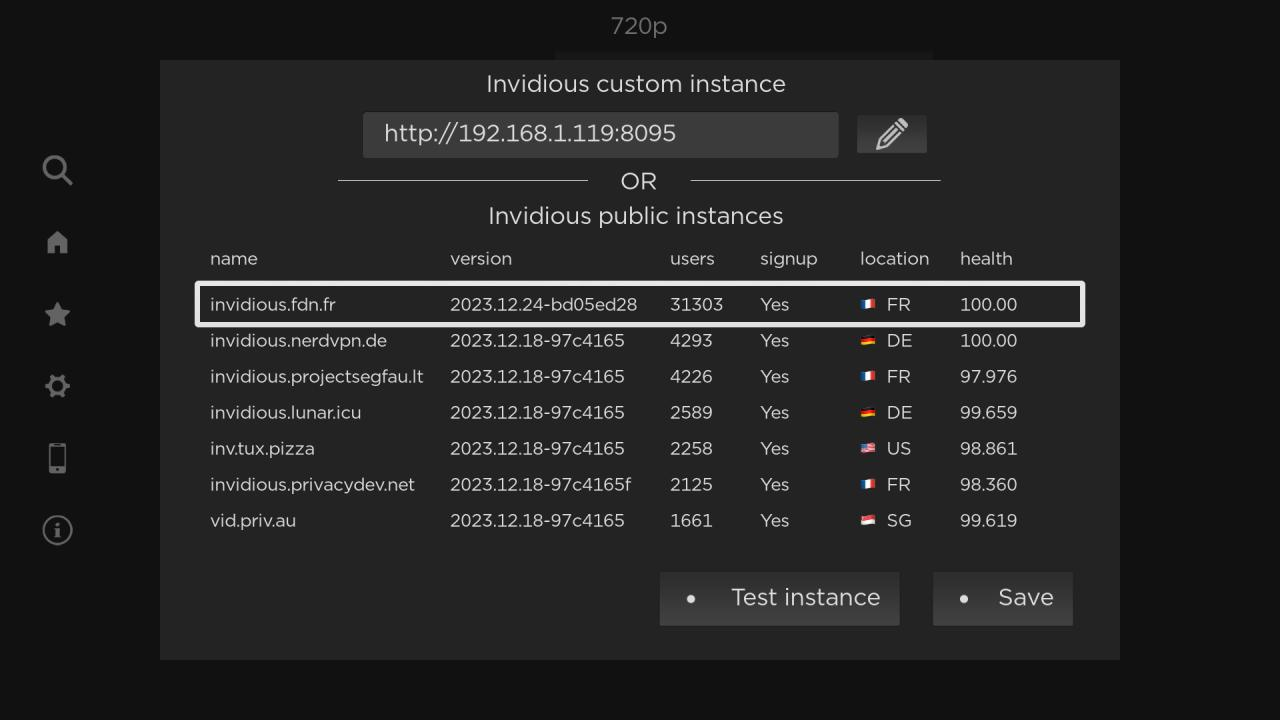
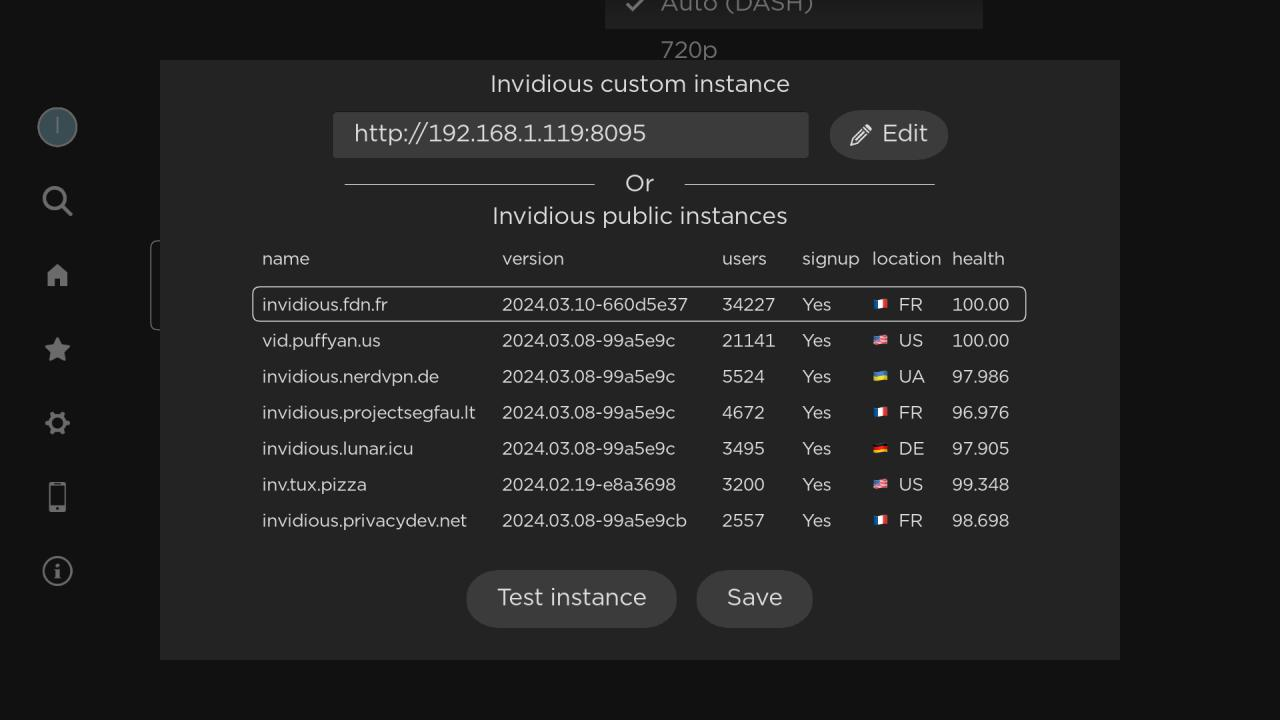
Update screenshots

diff --git a/docs/screenshots/README.md b/docs/screenshots/README.md
@@ -14,13 +14,17 @@
 | ------------------------- | --------------------------- |
 | ![Channel](./channel.jpg) | ![Playlist](./playlist.jpg) |
 
-| Settings                    | Invidious instances                              | Invidious testing                             |
-| --------------------------- | ------------------------------------------------ | --------------------------------------------- |
-| ![Settings](./settings.jpg) | ![Invidious instances](./invidious-settings.jpg) | ![Invidious testing](./invidious-testing.jpg) |
+| Profiles                    | Settings                    |
+| --------------------------- | --------------------------- |
+| ![Profiles](./profiles.jpg) | ![Settings](./settings.jpg) |
 
-| Remote                  | App info                    |
-| ----------------------- | --------------------------- |
-| ![Remote](./remote.jpg) | ![App info](./app-info.jpg) |
+| Invidious instances                              | Invidious testing                             |
+| ------------------------------------------------ | --------------------------------------------- |
+| ![Invidious instances](./invidious-settings.jpg) | ![Invidious testing](./invidious-testing.jpg) |
+
+| Remote                  | Info                |
+| ----------------------- | ------------------- |
+| ![Remote](./remote.jpg) | ![Info](./info.jpg) |
 
 ## Playlet web app
 
